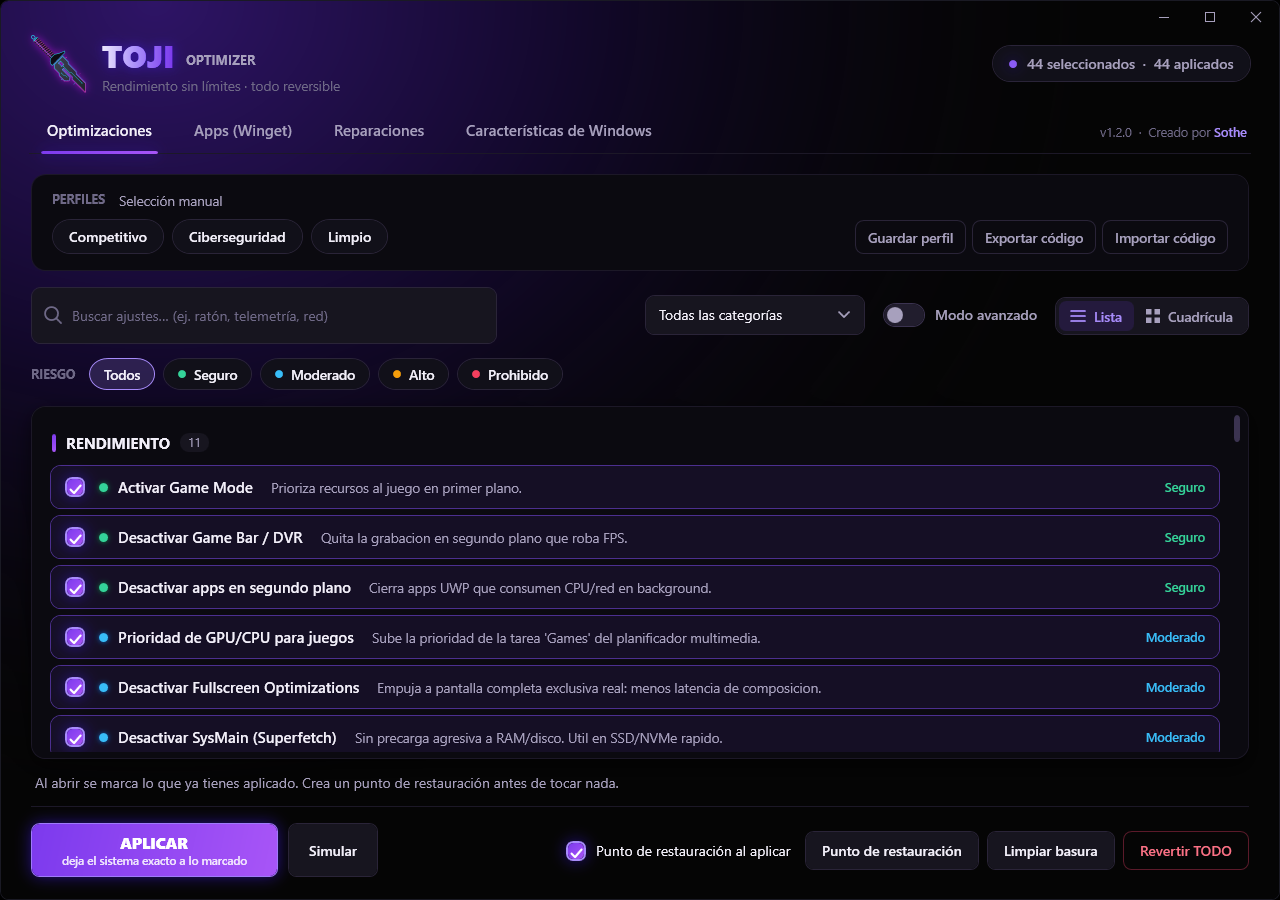
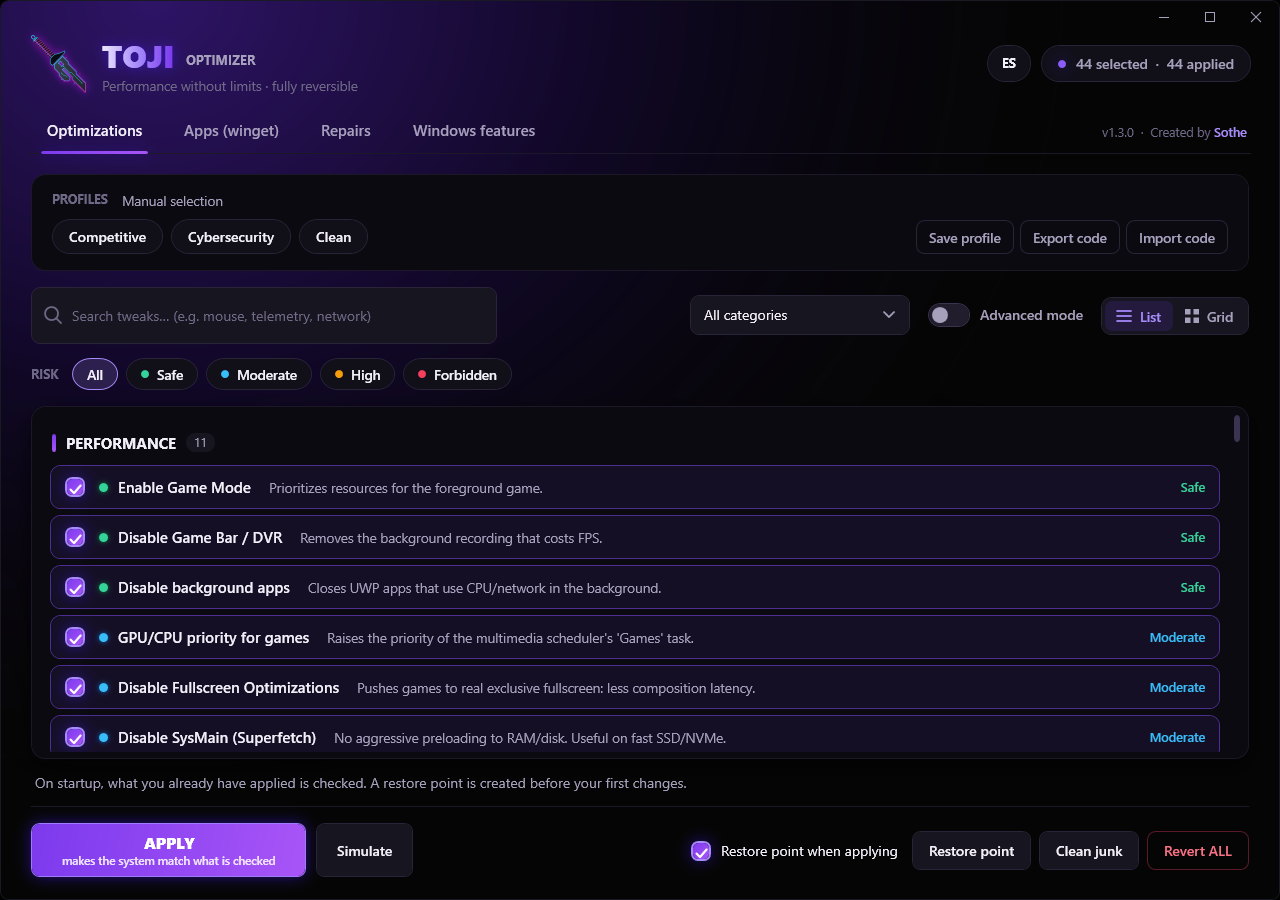
Replace the screenshots with the English UI and document the languages
The four tab screenshots are retaken with the English interface (captured with
PrintWindow, so only the window appears) and a Spanish one is added to show the
switch. The README explains the language button and CONTRIBUTING explains how
to translate (the es block in the data files and Strings.cs). The release
output folder is ignored.

diff --git a/README.md b/README.md
@@ -42,6 +42,10 @@ button ("Revert ALL") restores it in the right order.
 <td><img src="docs/images/toji-apps.png" alt="Apps tab (winget)" /></td>
 <td><img src="docs/images/toji-repairs.png" alt="Repairs tab" /></td>
 <td><img src="docs/images/toji-features.png" alt="Windows features tab" /></td>
+<td><img src="docs/images/toji-optimizations-es.png" alt="The same window in Spanish" /></td>
+</tr>
+<tr>
+<td align="center"><sub>Apps</sub></td><td align="center"><sub>Repairs</sub></td><td align="center"><sub>Features</sub></td><td align="center"><sub>Spanish (ES button)</sub></td>
 </tr>
 </table>
 
@@ -56,8 +60,9 @@ button ("Revert ALL") restores it in the right order.
 | **Profiles** | Competitive · Cybersecurity · Clean · your own, with a shareable code (`SOTHE-1-...`) |
 | **Repairs** | SFC, DISM, network reset, Windows Update repair, CHKDSK |
 
-> The UI is in **Spanish** and so are most code comments; the documentation is in English. Internationalising the UI is
-> on the roadmap.
+> **Languages.** The UI is in **English** by default and switches to **Spanish** with the `ES` / `EN` button in the header
+> (it keeps your selection and remembers the choice). Tweak, app and profile texts live in the data files with an `es` block;
+> the rest are in one table, `Strings.cs`. Most code comments are in Spanish.
 
 ---
 

diff --git a/CONTRIBUTING.md b/CONTRIBUTING.md
@@ -15,6 +15,17 @@ Tweaks are data, not code: edit `src/SotheOptimizer/data/tweaks.json`. A tweak i
 - Risk level: `safe` changes appearance or privacy toggles; `moderate` changes behaviour with a performance or power
   trade-off; `high` weakens a protection; `extreme` is hidden behind Advanced Mode.
 
+## Translations
+
+English is the default language and Spanish is included.
+
+- **Tweaks, apps, features and profiles** (`data/*.json`): the main fields (`name`, `desc`, `warning`) are English; the
+  translation goes in the item's `es` block. Every item must have it; a test checks that.
+- **Everything else** (buttons, dialogs, messages): one table, `src/SotheOptimizer/Strings.cs`, with the English text and
+  the Spanish text under the same key. Use `Loc.T("key")` in code and `{Binding [key], Source={x:Static local:Loc.Instance}}`
+  in XAML. Tests fail if a key is missing in either language, if `{0}` placeholders differ, or if a key is used but not defined.
+- Technical messages (log lines, engine errors) are English only and are not translated.
+
 ## Tests
 
 ```powershell
